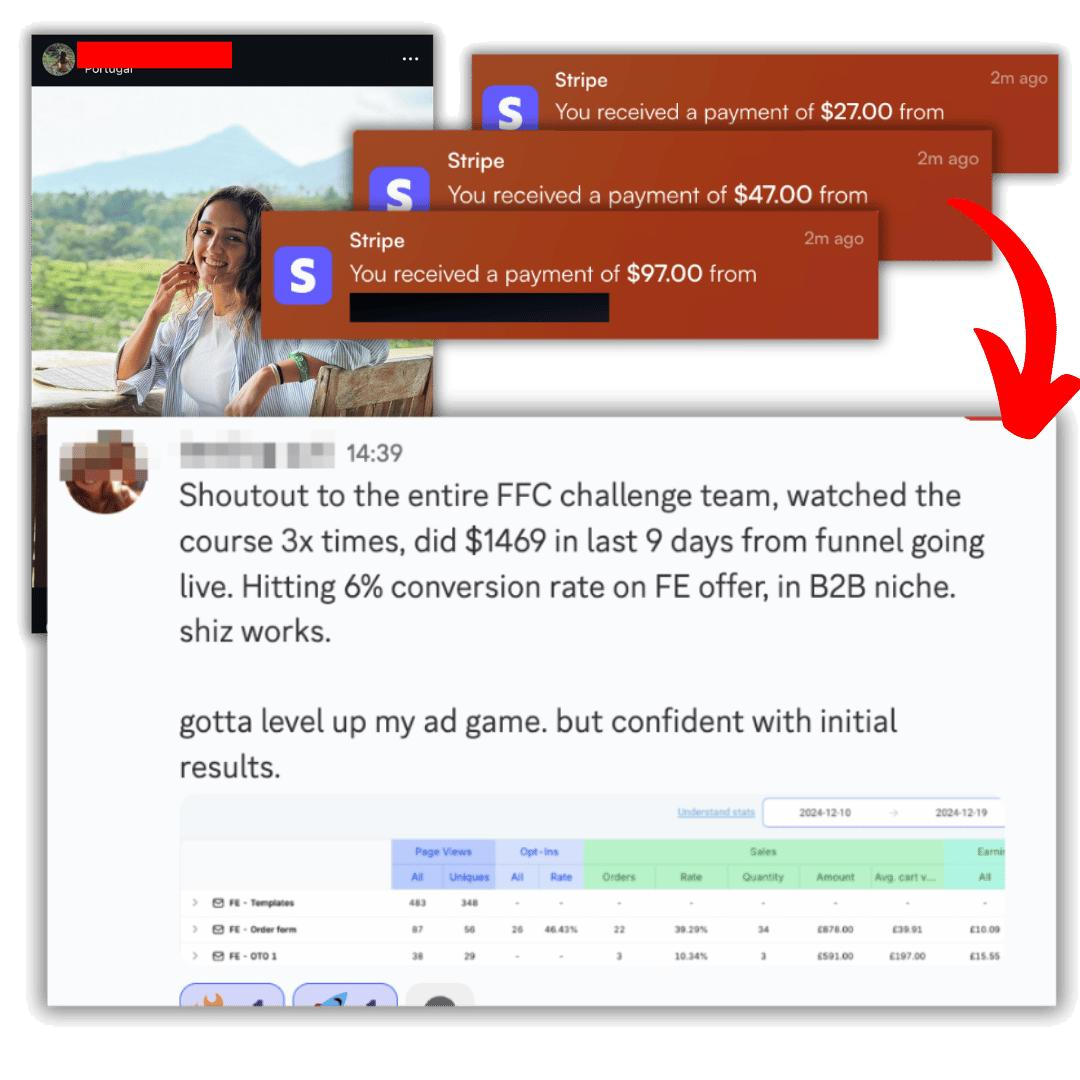
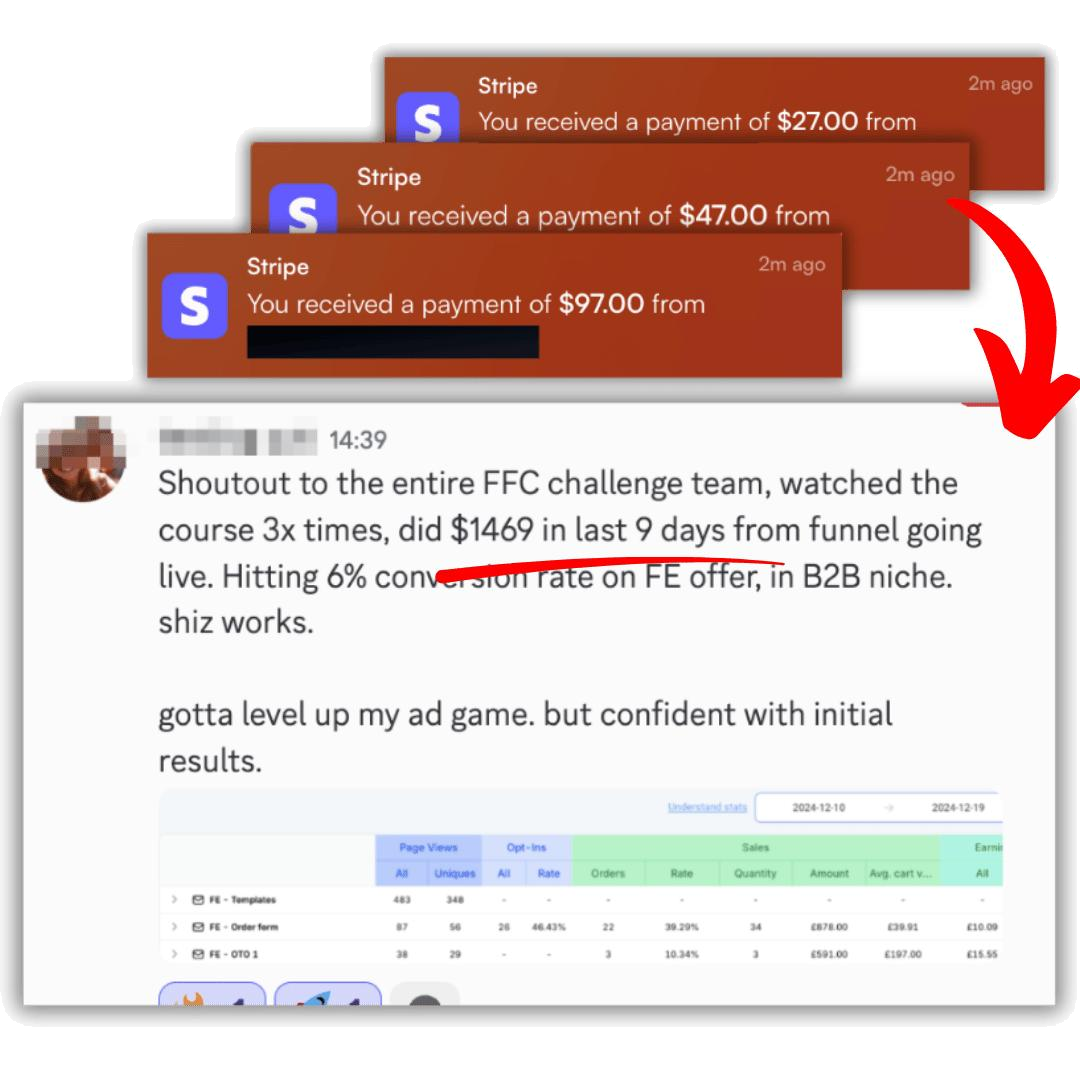
nova preview: student proof v2 (girl removed) transparent bg, ?v=3

diff --git a/ffc-email-assets/nova-preview.html b/ffc-email-assets/nova-preview.html
@@ -267,7 +267,7 @@
 <div class="nvsec band">
   <div class="wrap center">
     <h2 class="sec">That's how one of our students implemented this system right away and made <span class="pop">$1,469.65</span> as a total beginner</h2>
-    <img class="proofimg" src="https://facelessreelslab-assets.onrender.com/nova-student-proof.png?v=2" alt="Student result: $1,469 in 9 days from funnel going live" loading="lazy">
+    <img class="proofimg" src="https://facelessreelslab-assets.onrender.com/nova-student-proof.png?v=3" alt="Student result: $1,469 in 9 days from funnel going live" loading="lazy">
   </div>
 </div>
 
